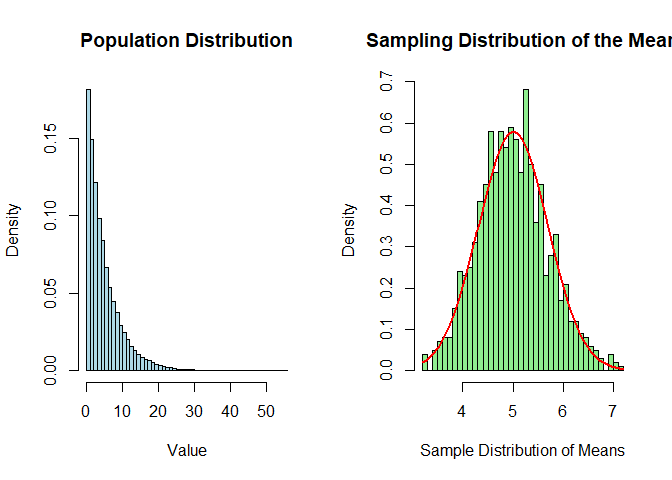
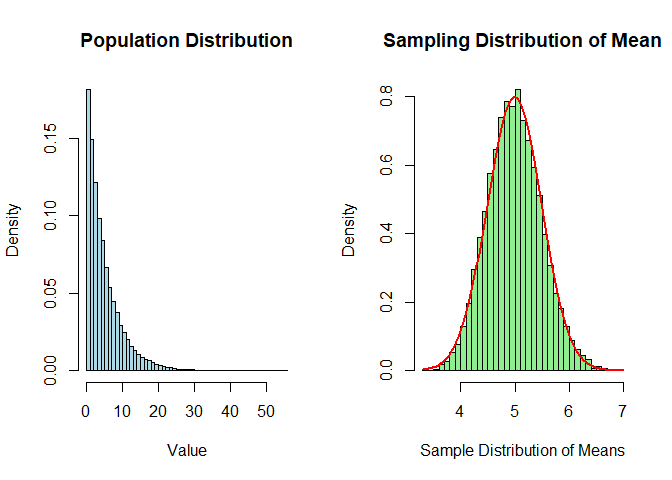
SE updated

diff --git a/chapters/SampDistr-Mean.md b/chapters/SampDistr-Mean.md
@@ -203,14 +203,26 @@ cm. If we randomly **select samples of 50 students** and calculate their
 mean height every time, you get many different means. The **distribution
 of those sample means** is the **sampling distribution of the mean**.
 
-#### Left plot: Skewed exponential population (non-normal).
-
-#### Right plot: Sampling distribution of sample means → Looks like a bell curve due to the Central Limit Theorem.
-
 ![](SampDistr-Mean_files/figure-markdown_strict/unnamed-chunk-1-1.png)
+
+-   The above figure shows exponential distribution (left plot) for
+    population.  
+
+-   Here, we selected multiple samples (n = 100) randomly from the
+    population of 10,000 and calculated mean for each sample.
+
+    -   Sample 1 (n = 100) → mean(Sample 1)
+    -   Sample 2 (n = 100) → mean(Sample 2)
+    -   Sample 3 (n = 100) → mean(Sample 3)
+    -   Sample 4 (n = 100) → mean(Sample 4)
+    -   Sample n (n = 100) → mean(Sample n)
+
+-   The right plot shows Sampling distribution of sample means. It looks
+    like a bell curve due to the **Central Limit Theorem**.
 
 -   It helps us **estimate population parameters** using sample
     statistics.
+
 -   Forms the basis of **confidence intervals** and **hypothesis
     testing**.
 
@@ -252,6 +264,8 @@ Then:
 </tbody>
 </table>
 
+------------------------------------------------------------------------
+
 ## Standard Error (SE)?
 
 The **Standard Error** is the **standard deviation of the sampling
@@ -263,11 +277,161 @@ $$
 \large SE = \frac {\sigma}{\sqrt n}
 $$
 
+Where:
+
+-   *σ*: Standard deviation of the population
+-   *n*: Sample size
+
+#### Explanation:
+
+Imagine we’re trying to find the average income of all families in our
+city. We can’t ask everyone — so we take a sample (say, 100 families),
+calculate the average, and repeat this sampling many times.
+
+Each time, our average is a little different. These differences are
+natural and expected due to sample-to-sample variability.
+
+> The **SE** measures **how much your sample means tend to vary** from
+> one sample to another.
+
+You own a bakery, and you bake cookies every day. You want to estimate
+the average weight of your cookies.
+
+#### Scenario A – Small Sample:
+
+You randomly pick **4 cookies**, weigh them, and compute the average.
+
+-   It might be 52g, but tomorrow, another sample of 4 might give 49g.
+
+-   There’s more **variation** (less reliable).
+
+So here, your **Standard Error is large**.
+
+#### Scenario B – Large Sample:
+
+You now pick **100 cookies** each day to compute the average weight.
+
+-   Today it’s 50.5g, tomorrow 50.7g — not much change.
+
+-   The averages are **more stable**.
+
+Here, your **Standard Error is small**.
+
+> **Larger sample size (n) ⇒ Lower SE ⇒ More reliable estimate of true
+> mean.**
+
 #### Importance:
 
 -   Smaller SE → more precise estimate of the population mean.
 -   As **sample size increases**, SE **decreases** (more reliable
     estimate).
+
+#### Why Does Standard Error Matter?
+
+<table>
+<colgroup>
+<col style="width: 28%" />
+<col style="width: 71%" />
+</colgroup>
+<thead>
+<tr>
+<th>Purpose</th>
+<th>Explanation</th>
+</tr>
+</thead>
+<tbody>
+<tr>
+<td><strong>Measures precision</strong></td>
+<td>Lower SE means your sample mean is likely closer to the true
+population mean</td>
+</tr>
+<tr>
+<td><strong>Builds confidence intervals</strong></td>
+<td>SE helps calculate how much “wiggle room” we have in our
+estimate</td>
+</tr>
+<tr>
+<td><strong>Used in hypothesis testing</strong></td>
+<td>Affects how we calculate test statistics and p-values</td>
+</tr>
+</tbody>
+</table>
+
+#### Impact of Sample Size on SE:
+
+Let’s say population standard deviation *σ* = 10
+
+<table>
+<thead>
+<tr>
+<th>Sample Size (n)</th>
+<th>Standard Error <span
+class="math inline">$\frac{10}{\sqrt{n}}$</span></th>
+</tr>
+</thead>
+<tbody>
+<tr>
+<td>4</td>
+<td>5.00</td>
+</tr>
+<tr>
+<td>25</td>
+<td>2.00</td>
+</tr>
+<tr>
+<td>100</td>
+<td>1.00</td>
+</tr>
+<tr>
+<td>400</td>
+<td>0.50</td>
+</tr>
+</tbody>
+</table>
+
+As sample size increases, **SE shrinks** — meaning your estimate becomes
+**more precise**.
+
+#### Standard deviation vs Standard error
+
+<table>
+<colgroup>
+<col style="width: 23%" />
+<col style="width: 34%" />
+<col style="width: 41%" />
+</colgroup>
+<thead>
+<tr>
+<th>Concept</th>
+<th>Measures what?</th>
+<th>Applies to what?</th>
+</tr>
+</thead>
+<tbody>
+<tr>
+<td><strong>Standard Deviation</strong></td>
+<td>Spread of individual data points</td>
+<td>Original dataset (population or sample)</td>
+</tr>
+<tr>
+<td><strong>Standard Error</strong></td>
+<td>Spread of sample means</td>
+<td>Sampling distribution of means</td>
+</tr>
+</tbody>
+</table>
+
+#### Summary:
+
+-   **SE tells** us how much we expect the sample mean to deviate from
+    the true population mean.
+
+-   **Larger samples** → More stable estimates → Smaller SE.
+
+-   Used in almost every confidence interval, hypothesis test, and
+    regression model in statistics
+
+------------------------------------------------------------------------
 
 ## Central Limit Theorem (CLT)
 
